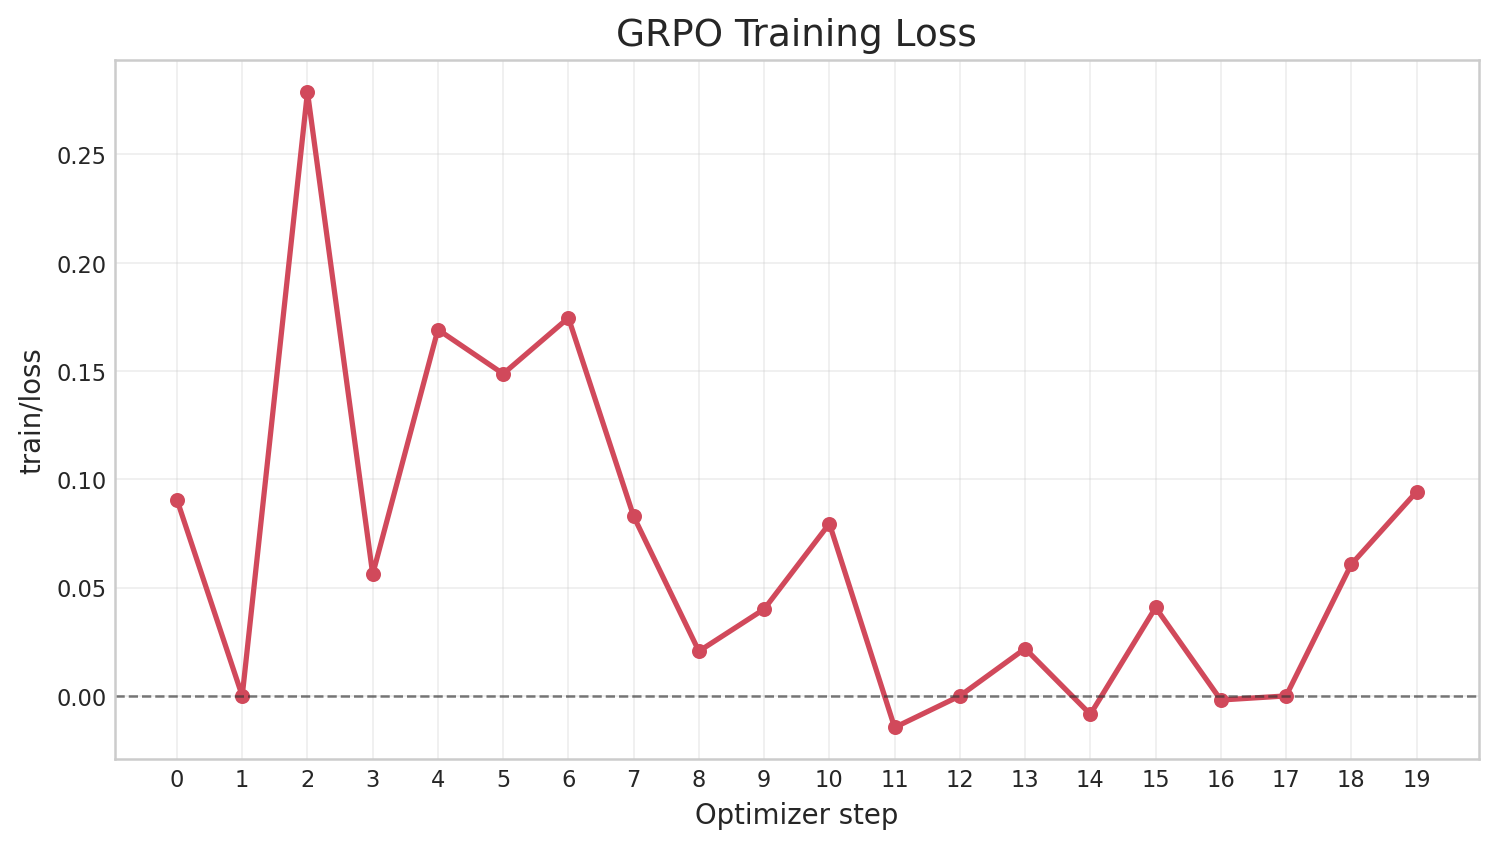
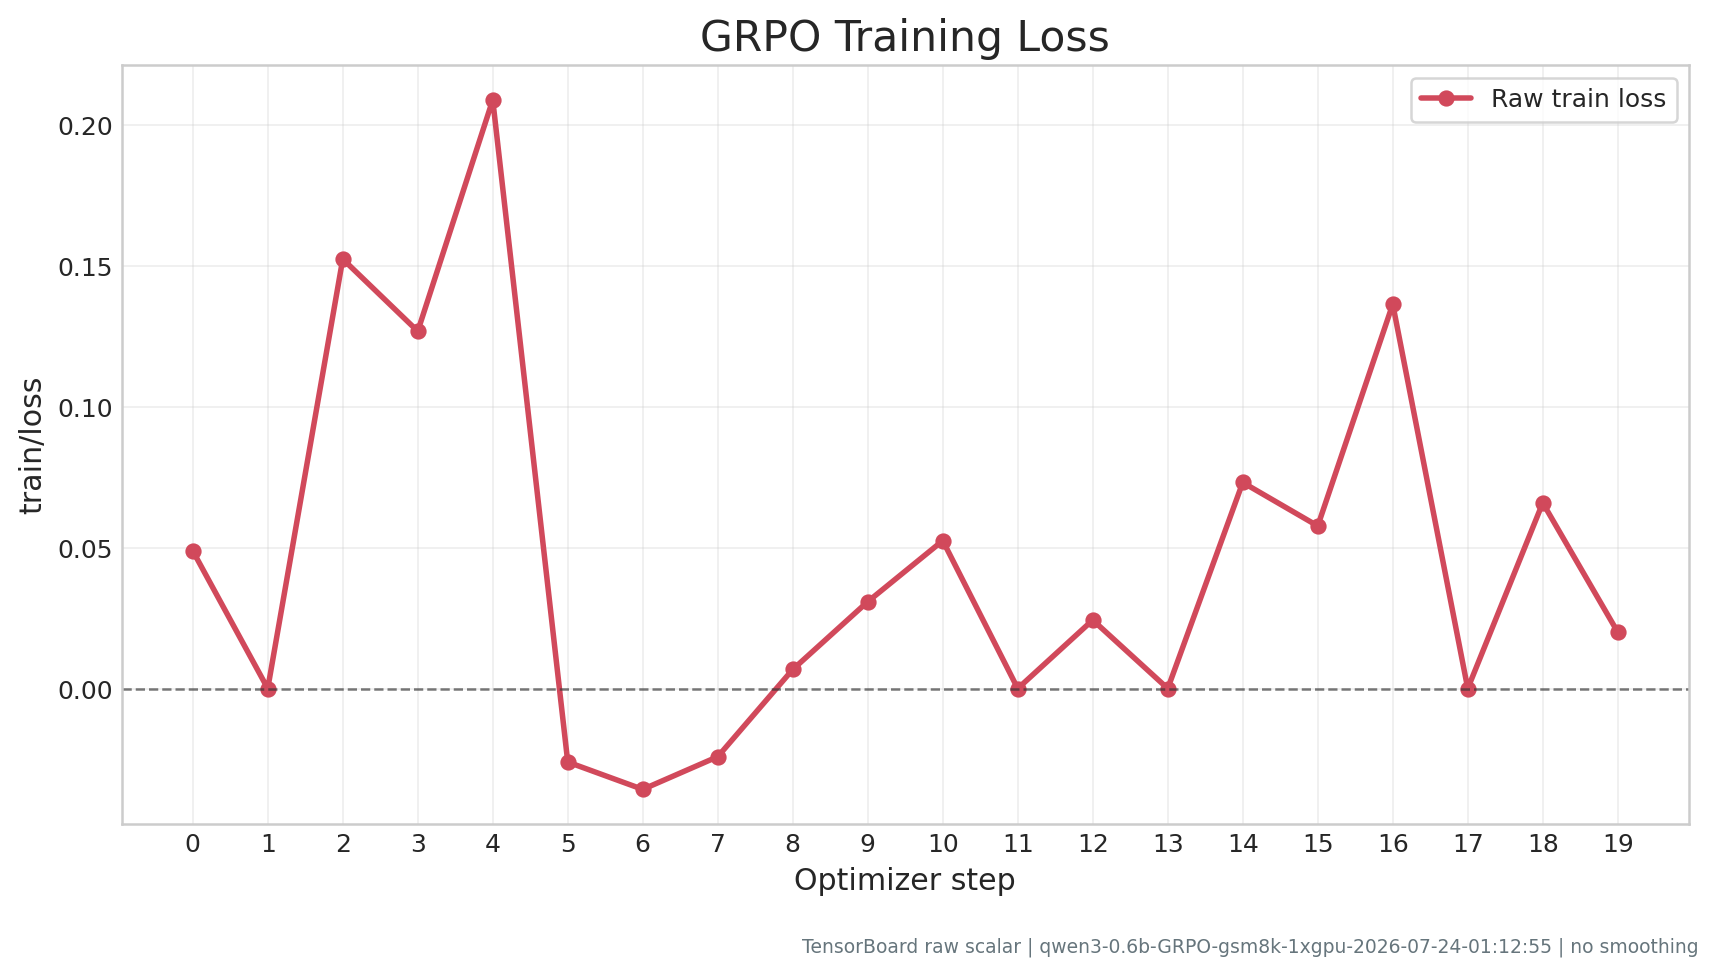
chore: upload report

diff --git a/submission/experiment_report.md b/submission/experiment_report.md
@@ -5,8 +5,8 @@
 | 项目 | 填写内容 |
 | --- | --- |
 | 学校 / 专业 / 姓名 | 香港中文大学 / 人工智能 / 冯玉翔 |
-| 完成日期 | 2026-07-24 |
-| 代码分支 / commit id | task/issue-76 / 54f144fac518bd30277f686b185e3ad8103bf56e |
+| 完成日期 | 2026-07-25 |
+| 代码分支 / commit id | task/issue-76 / 0bd1dcd82d52f27a4a3990f28c3a2b4e980b66f3 |
 | GPU 型号与数量 | NVIDIA GeForce RTX 3090 Ti × 1（24 GiB） |
 | Python / CUDA / 镜像版本 | Python 3.12.3 / CUDA 12.9（PyTorch 2.11.0+cu129） / `ghcr.io/redai-infra/relaxrl:dev-20260715-8325919e` |
 
@@ -18,14 +18,15 @@
 | 数据集 | GSM8K（openai/gsm8k，训练集） |
 | 算法 | GRPO |
 | 实际训练步数 | 10 个 rollout/外层 training step；20 个 optimizer step（0–19） |
-| 总耗时 | 约 18 分 13 秒（23:55:18–00:13:31） |
-| 日志 / 输出目录 | `log/qwen3-0.6b-GRPO-gsm8k-1xgpu-2026-07-23-23:55:18.log`；`tensorboard_log/Relax/dev/beginner-task/qwen3-0.6b-GRPO-gsm8k-1xgpu-2026-07-23-23:55:18/events.out.tfevents.1784822168.docker-desktop.2318.0` |
-| 主要参数调整 | 共 19 个运行配置修改，逐项原因、影响和验证结果见 2.1；完整脚本 diff 中另有 4 个仅影响说明/格式的修改，见 2.3。 |
+| 总耗时 | 约 19 分 13 秒（01:12:55–01:32:08） |
+| 日志 / 输出目录 | `log/qwen3-0.6b-GRPO-gsm8k-1xgpu-2026-07-24-01:12:55.log`；`tensorboard_log/Relax/dev/beginner-task/qwen3-0.6b-GRPO-gsm8k-1xgpu-2026-07-24-01:12:55/events.out.tfevents.1784826828.docker-desktop.23284.0` |
+| ClearML 实验 | Task ID：`697114221db8435487ce38c986c7d5a8`；[ClearML results page](https://app.clear.ml/projects/ef0492245b614fc0b8821f90f107cfa7/experiments/697114221db8435487ce38c986c7d5a8/output/log) |
+| 主要参数调整 | 共 18 个运行配置修改，逐项原因、影响和验证结果见 2.1。`--use-clearml` 与原始脚本一致，本次正式运行已启用，因此不再计为参数修改。 |
 
 ### 2.1 启动脚本修改逐项说明
 
 由于本次实验时，正好出差外地，手边暂无合适设备，因此新手任务暂只能使用低性能的显卡完成。为了完成新手任务，大部分配置必须降配。
-以下内容共列出 19 个会影响运行配置的修改；这些修改都发生在任务启动脚本中，没有修改 Relax 框架核心实现。
+以下内容共列出 18 个会影响运行配置的修改；这些修改都发生在任务启动脚本中，没有修改 Relax 框架核心实现。ClearML 在本次正式运行中保持启用，不属于相对原始脚本的修改项。
 
 #### 路径与训练规模
 
@@ -64,11 +65,11 @@
 | 16 | `--use-kl-loss` | 启用 | 注释，运行值为 `False` | 原脚本同时设置 `--kl-loss-coef 0.00`，KL 项本来就不会对最终 loss 产生数值贡献，但启用开关仍会要求 `ref_log_probs` 数据路径。关闭未生效的 KL loss 可减少不必要的参考策略计算/数据开销，算法仍为 GRPO。TensorBoard 中的 `train/ppo_kl` 只是诊断指标，仍正常记录。 |
 | 17 | `--kl-loss-coef` | 显式 `0.00` | 注释，回到默认 `0.0` | 数值上没有改变优化目标；该行随 `--use-kl-loss` 一起注释，是为了避免报告误以为训练使用了 KL penalty。此项单独列出是为了完整对应脚本 diff。 |
 | 18 | `--kl-loss-type` | `low_var_kl` | 注释，不生效 | KL loss 已关闭且系数为 0，因此 estimator 类型不会参与计算。注释该依赖参数可让实际配置更清楚；不会改变本次 GRPO 更新结果。 |
-| 19 | `--use-clearml` | 启用 | 注释，运行值为 `False` | 正式实验改用本地 TensorBoard，避免依赖 ClearML 账号、网络上传以及多次调试产生的远端实验污染。`--use-metrics-service` 和 TensorBoard 配置仍保留，Reward/Loss/KL/grad norm 数据完整；代价是没有 ClearML 在线仪表盘。Issue #76 的必交材料是日志、PDF 与曲线，并未要求 ClearML 链接。 |
+
 
 ### 2.2 启动命令中其他显式值
 
-以下值出现在完整启动命令中。前三项与原脚本默认值相同，不属于脚本 diff，但为了使步数计算和实验复现完整，仍明确记录其选择理由。
+以下值出现在完整启动命令中，不属于启动脚本 diff，但为了使实验可以复现，仍明确记录其选择理由。
 
 | 参数 | 值 | 设置原因与影响 |
 | --- | --- | --- |
@@ -103,15 +104,15 @@ bash examples/beginner-task/run-qwen3-0.6B-1xgpu-grpo.sh
 
 ### 3.1 Reward 曲线
 
-![Reward curve](reward_curve.png)
+![Reward curve generated from rollout/raw_reward](reward_curve.png)
 
-指标名：`rollout/raw_reward`。数据来源：本次运行的 TensorBoard event 文件，共 10 个 rollout 点（0–9）；均值为 0.6969，首值 0.9375，末值 0.7812。本次短程实验用于验证链路，不据此声称模型已经收敛。
+指标名：`rollout/raw_reward`。数据直接取自本次正式运行的 TensorBoard event 原始 scalar，同一指标也同步上报至 ClearML Task `697114221db8435487ce38c986c7d5a8`。曲线未做平滑处理，共 10 个 rollout 点（0–9），均值为 0.6906，首值 0.9062，末值 0.6875。本次短程实验用于验证链路，不据此声称模型已经收敛。
 
 ### 3.2 Loss 曲线
 
-![Loss curve](loss_curve.png)
+![Loss curve generated from train/loss](loss_curve.png)
 
-指标名：`train/loss`。数据来源：同一 TensorBoard event 文件，共 20 个 optimizer step 点（0–19）；首值 0.090547，末值 0.094228。GRPO policy loss 可为零或负值，不等同于监督学习中必须单调下降的交叉熵损失。
+指标名：`train/loss`。数据来自同一 TensorBoard event 原始 scalar，并同步上报至同一 ClearML Task。曲线未做平滑处理，共 20 个 optimizer step 点（0–19），首值 0.048843，末值 0.019993。GRPO policy loss 可为零或负值，不等同于监督学习中必须单调下降的交叉熵损失。
 
 
 ## 4. 遇到的问题与解决方案
@@ -121,8 +122,8 @@ bash examples/beginner-task/run-qwen3-0.6B-1xgpu-grpo.sh
 | 新 shell 中出现 `/your/data/...` 不存在 | 容器内环境变量未继承，脚本占位默认路径不适合当前挂载 | 将可覆盖默认值设为 `/models`、`/data`，仍允许外部环境变量覆盖 | 正式日志从 `/models/Qwen3-0.6B` 加载模型，并读取 `/data/gsm8k/main/train_clean.parquet` |
 | Actor 在 loss/log-prob 或前向阶段发生 CUDA OOM | 24 GiB GPU 上峰值 logits、激活和权重更新临时 buffer 同时占用显存 | token 上限降为 2048，log-prob chunk 设为 4；启用 loss/full recompute；设置 512 MiB margin 和 128 MiB update buffer；关闭 weights backuper | 最终日志无 `torch.OutOfMemoryError`，完成 optimizer step 0–19 |
 | Megatron Actor 被系统 OOM killer 杀死 | WSL/容器内存与 swap 峰值不足，不是显卡显存问题 | WSL 配置约 27 GB 内存和 16 GB swap，并降低 reward 并发及权重更新峰值 | 容器可见约 26 GiB RAM、16 GiB swap；正式运行无 `ActorDiedError` 或全局重启 |
-| `MetricsServiceAdapter` 因 `inf` 拒绝性能指标 | RTX 3090 Ti 未被 MFU 峰值表识别，`perf/device_peak_tflops=inf` 不能编码为严格 JSON | 保留日志并使用未受影响的 TensorBoard Reward/Loss/KL/grad norm；报告中明确披露缺失的 `perf/step_time` | event 文件含 10 个 Reward 点和 20 个 Loss/KL/grad-norm 点；训练结果未受影响 |
+| `MetricsServiceAdapter` 因 `inf` 拒绝性能指标 | RTX 3090 Ti 未被 MFU 峰值表识别，`perf/device_peak_tflops=inf` 不能编码为严格 JSON | 保留 ClearML 与 TensorBoard，使用未受影响的 Reward/Loss/KL/grad norm；报告中明确披露缺失的 `perf/step_time` | ClearML Task 成功创建，Reward 10 个点、Loss/KL/grad norm 各 20 个点均正常上报；失败的仅是每个 rollout 含 `inf` 的 perf 批次，训练结果未受影响 |
 
 ## 5. 总结
 
-本次任务已完成 Qwen3-0.6B 在 GSM8K 上的单卡 GRPO 后训练，共完成 10 个 rollout/外层 training step 和 20 个 optimizer step。主链路为启动脚本完成参数解析，Controller 编排 Actor、Rollout 与 MetricsService，SGLang 生成回答，math reward 计算奖励，GRPO 估计优势并由 Megatron 更新策略，最后由 TensorBoard 记录指标。最终日志正常结束，Reward、Loss、KL 和 grad norm 曲线数据完整，满足不少于 10 个 training step 以及提交日志和训练曲线的要求。
+本次任务已完成 Qwen3-0.6B 在 GSM8K 上的单卡 GRPO 后训练，共完成 10 个 rollout/外层 training step 和 20 个 optimizer step。主链路为启动脚本完成参数解析，Controller 编排 Actor、Rollout 与 MetricsService，SGLang 生成回答，math reward 计算奖励，GRPO 估计优势并由 Megatron 更新策略，最后由 ClearML 与 TensorBoard 同时记录指标。最终日志正常结束，ClearML Task 成功创建，Reward、Loss、KL 和 grad norm 曲线数据完整，满足不少于 10 个 training step 以及提交日志和训练曲线的要求。
